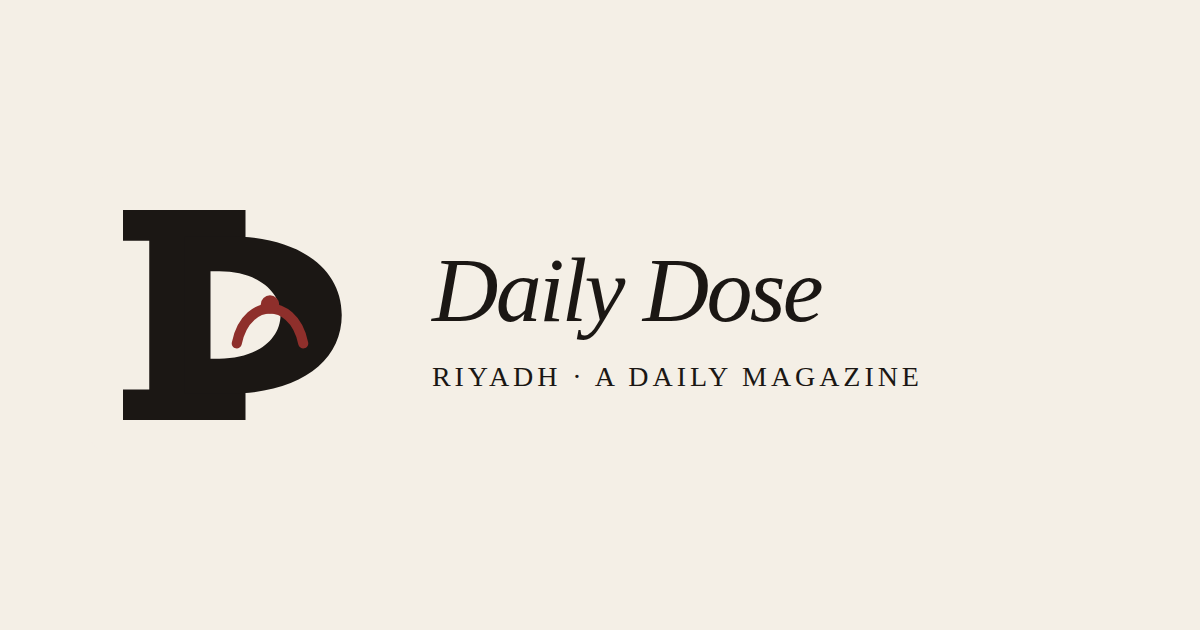
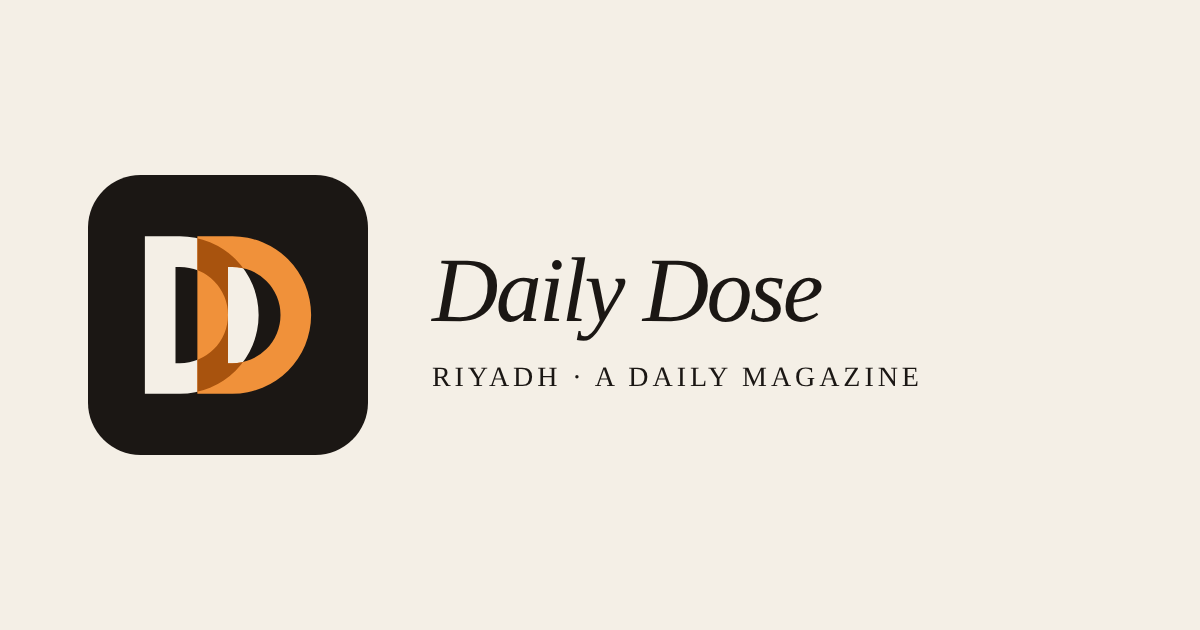
Replace the mark with an overlapped Double D and make the accent orange.
New favicon, app icons, maskable icon and share image, plus the same mark
in the masthead. The accent that was dark pink is now orange in both
themes (#9c4308 on paper, #f0913a on ink).

Claude-Session: https://claude.ai/code/session_013ryvWiM9F2gJRwexAZxJnq

Changed region(s): [[0.0617, 0.2714, 0.3083, 0.7238], [0.4933, 0.573, 0.7708, 0.6333], [0.3392, 0.573, 0.4625, 0.6032]]

diff --git a/src/components/pieces.tsx b/src/components/pieces.tsx
@@ -8,10 +8,10 @@ import type { Item } from "../types";
 export function Mark({ className = "mark" }: { className?: string }) {
   return (
     <svg className={className} viewBox="0 0 64 64" aria-hidden="true">
-      <path fill="currentColor" d="M8 8h28v7H8zm0 41h28v7H8zM14 8h12v48H14z" />
-      <path fill="currentColor" fillRule="evenodd" d="M22 14h10c16 0 26 7.2 26 18S48 50 32 50H22V14zm8 8h-2v20h2c8.5 0 14-4.4 14-10s-5.5-10-14-10z" />
-      <path d="M34 38.5c1.2-6 5-8 7.6-8s6.4 2 7.6 8" fill="none" stroke="var(--memes)" strokeWidth="2.3" strokeLinecap="round" />
-      <circle cx="41.6" cy="29.6" r="2.1" fill="var(--memes)" />
+      <defs><clipPath id="dd-clip"><path clipRule="evenodd" d="M13 14h8a18 18 0 0 1 0 36h-8zM20 21v22h1a11 11 0 0 0 0-22z" /></clipPath></defs>
+      <path fill="currentColor" fillRule="evenodd" d="M13 14h8a18 18 0 0 1 0 36h-8zM20 21v22h1a11 11 0 0 0 0-22z" />
+      <path fill="var(--memes)" fillRule="evenodd" d="M25 14h8a18 18 0 0 1 0 36h-8zM32 21v22h1a11 11 0 0 0 0-22z" />
+      <path clipPath="url(#dd-clip)" fill="color-mix(in srgb, var(--memes) 62%, var(--ink))" fillRule="evenodd" d="M25 14h8a18 18 0 0 1 0 36h-8zM32 21v22h1a11 11 0 0 0 0-22z" />
     </svg>
   );
 }

diff --git a/src/styles.css b/src/styles.css
@@ -7,7 +7,7 @@
   --muted: #6f675c;
   --rule: rgba(27, 23, 20, 0.16);
   --rule-strong: #1b1714;
-  --memes: #8e2f2b;
+  --memes: #9c4308;
   --places: #8a5a22;
   --things: #1c3d66;
   --gems: #1d5c46;
@@ -27,7 +27,7 @@ html[data-theme="dark"] {
   --muted: #b3a89a;
   --rule: rgba(243, 238, 230, 0.16);
   --rule-strong: #f3eee6;
-  --memes: #e08a7a;
+  --memes: #f0913a;
   --places: #e2b56a;
   --things: #9ec0dc;
   --gems: #8dccb0;
